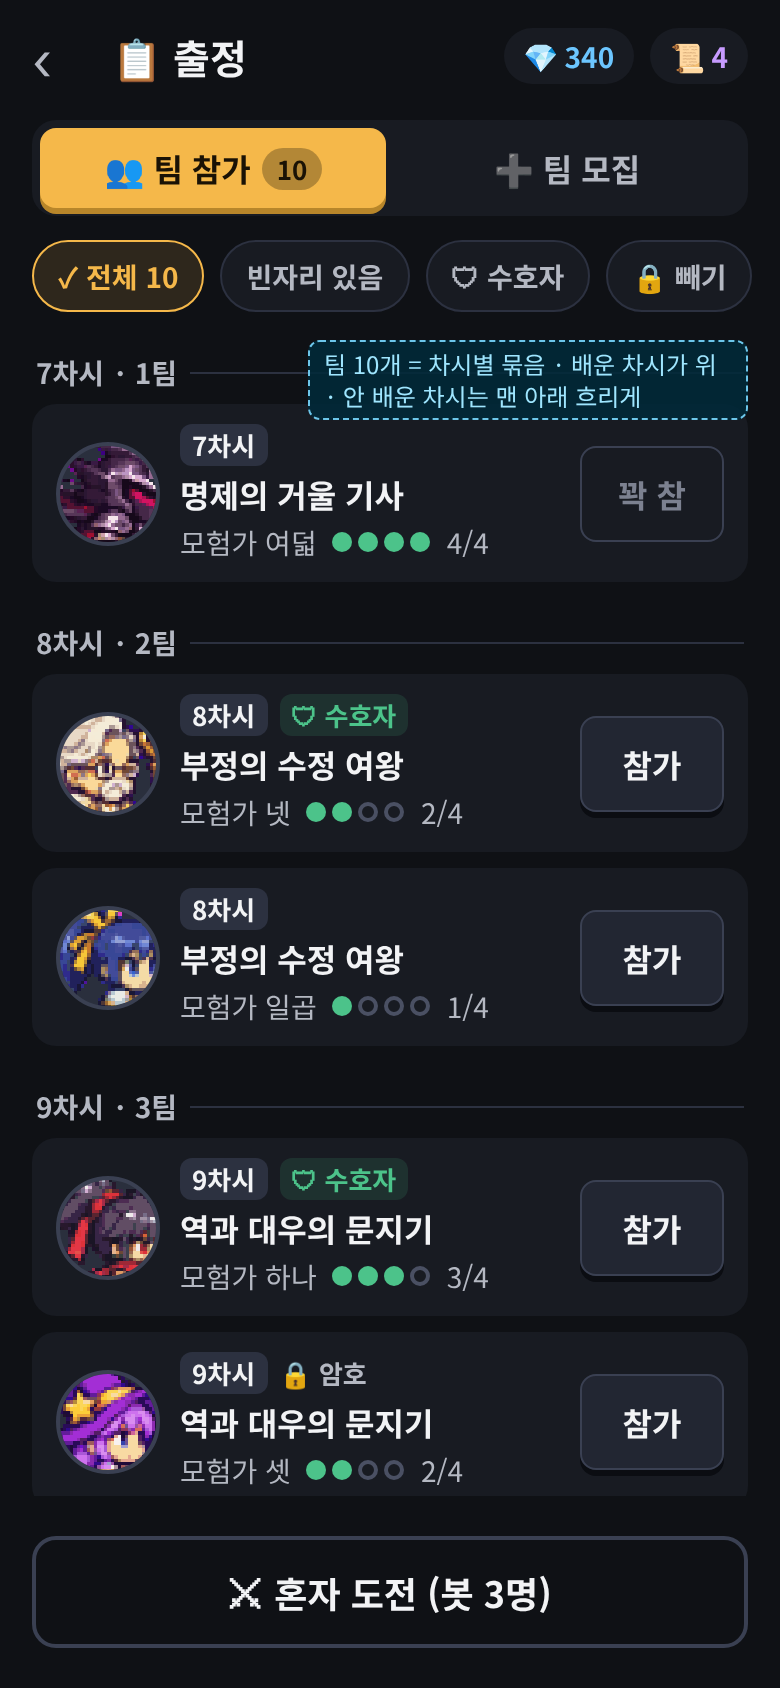
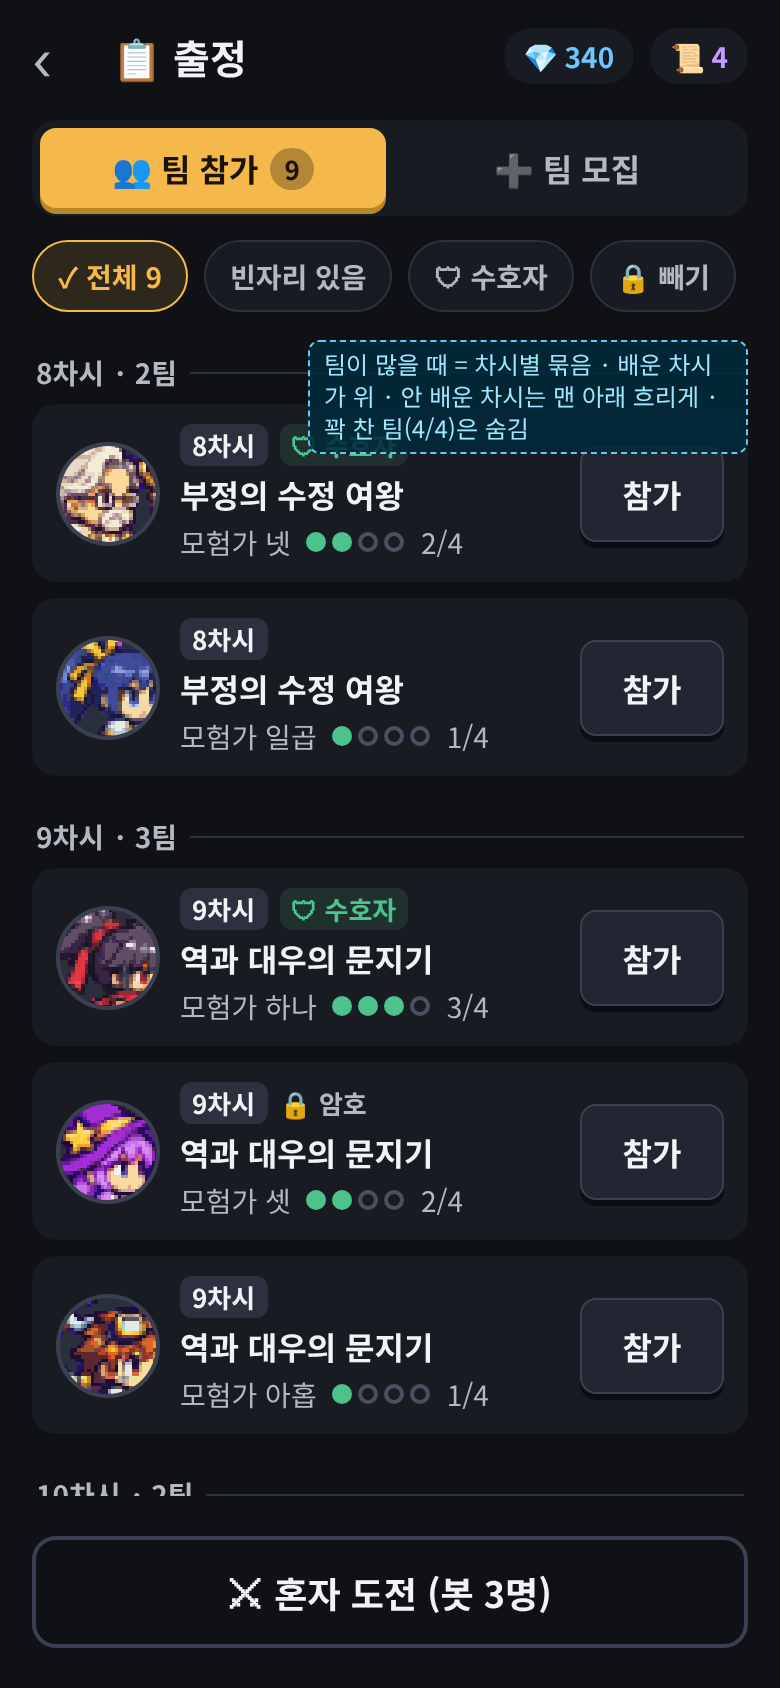
📜 게시판 출정 시안 고르기: 혼자 도전 아래 · 칩 그대로 · 차시 묶음 · 꽉 찬 팀 숨김 (11/24)
Claude-Session: https://claude.ai/code/session_014JJv1ioE1uuu1uLzo26R9z

diff --git a/docs/handoff/minigame-mock/board.html b/docs/handoff/minigame-mock/board.html
@@ -72,7 +72,6 @@ const T = [
  { ch: 11, boss: '모순의 리바이어던', name: '모험가 다섯', h: 12, n: 1, lock: true },
  { ch: 10, boss: '필요충분의 천칭 수호자', name: '모험가 여섯', h: 14, n: 3, pw: true },
  { ch: 8, boss: '부정의 수정 여왕', name: '모험가 일곱', h: 5, n: 1 },
- { ch: 7, boss: '명제의 거울 기사', name: '모험가 여덟', h: 16, n: 4, full: true },
  { ch: 9, boss: '역과 대우의 문지기', name: '모험가 아홉', h: 18, n: 1 },
  { ch: 12, boss: '귀류의 그림자 군주', name: '모험가 열', h: 10, n: 2, lock: true },
 ];
@@ -102,7 +101,7 @@ S['3-many'] = () => { const G = {}; T.forEach((t) => (G[t.ch] = G[t.ch] || []).p
  <div class="chips"><div class="chip on">✓ 전체 ${T.length}</div><div class="chip">빈자리 있음</div><div class="chip">🛡 수호자</div><div class="chip">🔒 빼기</div></div>
  <div class="list withchips">${keys.map((k) => `<div class="grp">${k}차시 · ${G[k].length}팀 ${G[k][0].lock ? '· 🔒 아직 안 배움' : ''}<span class="bar"></span></div>${G[k].map(row).join('')}`).join('')}</div>
  ${bottomJoin}
- <div class="note" style="right:16px;top:170px;max-width:220px">팀 10개 = 차시별 묶음 · 배운 차시가 위 · 안 배운 차시는 맨 아래 흐리게</div>
+ <div class="note" style="right:16px;top:170px;max-width:220px">팀이 많을 때 = 차시별 묶음 · 배운 차시가 위 · 안 배운 차시는 맨 아래 흐리게 · 꽉 찬 팀(4/4)은 숨김</div>
 </div>`; };
 S['4-password'] = () => `<div class="ph">${TOPBAR}${seg(5)}
  <div class="list"><div class="hint"><span>지금 열린 팀 5</span><span>↻ 방금</span></div>${[T[0], T[1], T[2], T[3], T[4]].map(row).join('')}</div>

diff --git a/docs/DECISIONS.md b/docs/DECISIONS.md
@@ -4394,3 +4394,4 @@
 - 📜 2026-11-24 (메타인지 9) 💚 대시보드에 **「힐 준」 칸 더함**(⚡ 친구 풀어 주기 횟수 · 「💡 힌트 준」과 따로 · 선생님 고르기). 💬 까닭: 학생 인터뷰 「힐 · 힌트 무조건 누른다」인데 대시보드엔 힌트만 보여 협동이 안 잡힘 → 협동 근거 · 세특 관찰 자료. 구현: 베타 ux98 c5006b6(규칙 안 바뀜 · 지난 수업은 빈칸)
 - 📜 2026-11-24 (메타인지 9) 🎬 한 칸에 영상 두 편 = **「덧영상」 단추 하나 더**(🎬 1 · 🎬 2 · 옛 영상 그대로 · 새 영상은 앱 안 video/ · 서버 팩 다시 올리기 없음 · 리모컨 · 종합실 · 허수아비 · 예습 영상 단추 자리 같음 · 선생님 고르기 · 손발 #1 ❓ #6): 71 귀류법 알리바이 → 12차시 c1 · 72 함수 알까기 → 14차시 c1 · c2 · 73 프레스 → 14차시 c3. 💬 까닭: 선생님 수업 비유(알리바이 · 알까기 · 프레스)를 영상으로 남기되 이미 학생이 본 옛 영상도 지움 없이 둘 다 볼 수 있게. 구현: ⏳ 손발 #1
 - 📜 2026-11-24 (메타인지 9) 🖼 차시팩 칸 그림 = **🔑 열쇠 · 🔁 전시 학습 · 도입 · 개념을 따로 자름**(선생님 「차시팩 만들 때 열쇠 이미지 따로 전시 학습 따로 도입 따로 개념 따로 분리시켜 줘 · 지금 애매하고 붙어 있어서 매끄럽지 못해」 → 범위 고르기 「아직 안 한 차시부터 + 새 팩」 → 「13차시부터 반영해 줘」): 13 · 14 · 15 · 16 · 17차시 팩 다시 자르고 앞으로 만드는 팩도 같게 · 11 · 12차시는 그대로 · PACK-GUIDE 7절 검사 16. 💬 까닭: 한 그림에 두 칸이 붙어 뜨면 교사가 도입 → 개념으로 넘어갈 때 화면이 끊겨 보이고 학생이 지금 볼 칸을 헷갈림 → 칸 하나 = 내용 하나로 수업 흐름을 매끄럽게. 구현: 📚 차시팩 #1 b33acc8 · 13 v7 · 14 v8 · 15 v6 · 16 v7 · 17 v7 「칸분리」(드라이브 08 · 도입 = 🔑 열쇠 → 🔁 전시 확인 → 🔍 생각 열기 3단계) → ⏳ 선생님 「📦 차시 팩」 올리기
+- 📜 2026-11-24 10시대 KST · 📋 게시판 출정 시안 고르기 (🎨 에셋 방 2 · 선생님 「1 추천 · 2 그대로 · 3 응 · 4 숨김」 · 시안 docs/handoff/minigame-mock/board-join-*.png): ① 「⚔ 혼자 도전」 = 출정 맨 아래 보조 단추(테두리) ② 필터 칩 4개 그대로(✓ 전체 · 빈자리 있음 · 🛡 수호자 · 🔒 빼기) ③ 팀이 많으면 차시별 묶음 · 배운 차시 번호순 · 안 배운 차시는 맨 아래 흐리게 ④ 인원이 꽉 찬 팀(4/4)은 목록에서 **숨김**. 💬 까닭: 들어갈 수 있는 팀만 보여 줘야 고르기가 빠르고 「참가」를 눌렀다 막히는 일이 없음. 상태: ⏳ 머리 확인 → 손발.

diff --git a/docs/handoff/minigame-mock/README.md b/docs/handoff/minigame-mock/README.md
@@ -67,7 +67,7 @@
 |---|---|
 | board-join-1-list.png | 출정 첫 모습 = 👥 팀 참가(왼쪽 · 기본 · 금빛) / ➕ 팀 모집(오른쪽) · 열린 팀 전부가 바로 목록 · 한 줄 = 방장 용사 얼굴 · 차시 · 🔒 암호 · 🛡 수호자 · 보스 이름 · 방장 이름 · 인원 ●●●○ n/4 · [참가] · 안 배운 차시 = 흐리게 「아직 안 배움」 · 아래 = ⚔ 혼자 도전(보조) |
 | board-join-2-empty.png | 열린 팀 0 = 📋 그림 + 「지금 열린 팀이 없어요」 + 주요 단추 「➕ 내가 모집하기」(맨 아래 · 혼자 도전은 그 위) |
-| board-join-3-many.png | 팀 10개 = 필터 칩(✓ 전체 · 빈자리 있음 · 🛡 수호자 · 🔒 빼기) + 차시별 묶음(n차시 · k팀) · 꽉 찬 팀 = 「꽉 참」 흐림 |
+| board-join-3-many.png | 팀이 많을 때 = 필터 칩(✓ 전체 · 빈자리 있음 · 🛡 수호자 · 🔒 빼기) + 차시별 묶음(n차시 · k팀) · 꽉 찬 팀은 숨김 |
 | board-join-4-password.png | (덤) 🔒 팀 [참가] = 아래 시트 숫자 4자리 → 「👥 참가」 |
 
-시안에서 정한 척한 것(⏳ 선생님): ① 「⚔ 혼자 도전」 = 아래 보조 단추(지금 출정의 혼자 자리를 옮김) ② 필터 칩 4개 ③ 묶음 순서 = 배운 차시 번호순 · 안 배운 차시는 맨 아래 ④ 꽉 찬 팀도 목록에 남김(흐리게). 이름 · 보스 이름은 시안용(7 · 12차시 보스 이름은 임시).
+✅ 선생님 11/24: ① 혼자 도전 = 아래 보조 단추 ② 필터 칩 4개 그대로 ③ 배운 차시 번호순 · 안 배운 차시 맨 아래 ④ 꽉 찬 팀 숨김(DECISIONS 11/24). 이름 · 보스 이름은 시안용(7 · 12차시 보스 이름은 임시).
